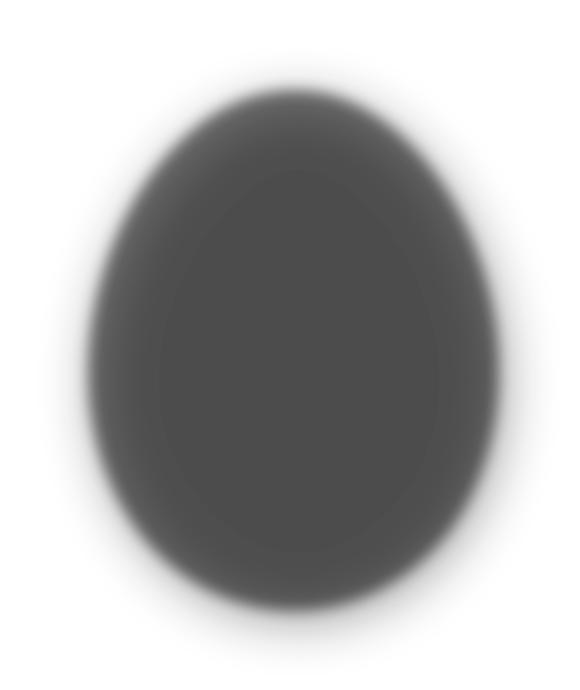
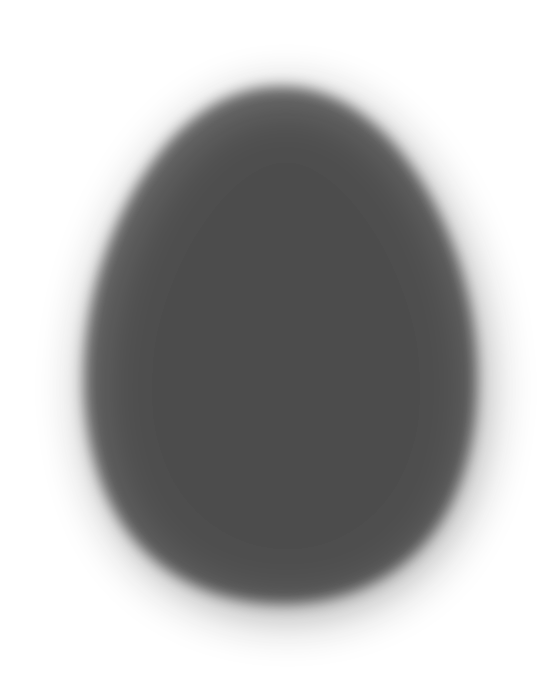
Обновление корпуса

Changed region(s): [[0.582, 0.6485, 0.8577, 0.8956], [0.1532, 0.6485, 0.3982, 0.8956]]

diff --git a/src/skin.js b/src/skin.js
@@ -46,19 +46,19 @@
     cream: {
       name: 'кремовый',
       image: 'resources/img/skins/shell_cream.png',
-      w: 829, h: 1048,
+      w: 793, h: 1042,
       offsetY: 0.5,
       /* вырез на единицу шире настоящего с каждой стороны: так он гарантированно
          накрывает полупрозрачную кромку, и мимо не просвечивает фон */
-      screen:  { x: 0.23402, y: 0.29389, w: 0.53679, h: 0.42462 },
+      screen:  { x: 0.23455, y: 0.30422, w: 0.53216, h: 0.40499 },
       radius:  0.030,                      // скругление углов экрана, доля от его ширины
       /* тень нарисована заранее, tools/makeshadow.py; pad — поле вокруг корпуса
          на картинке тени, доля от ширины корпуса */
-      shadow:  { image: 'resources/img/skins/shadow_cream.png', pad: 0.20024 },
+      shadow:  { image: 'resources/img/skins/shadow_cream.png', pad: 0.20050 },
       buttons: [
-        { x: 0.26519, y: 0.79395, w: 0.13549, h: 0.10580 },   // левая
-        { x: 0.43165, y: 0.83158, w: 0.13549, h: 0.10305 },   // средняя
-        { x: 0.59932, y: 0.79649, w: 0.13549, h: 0.10168 },   // правая
+        { x: 0.24762, y: 0.76777, w: 0.11259, h: 0.08154 },   // левая
+        { x: 0.43677, y: 0.80190, w: 0.11259, h: 0.08430 },   // средняя
+        { x: 0.62691, y: 0.76681, w: 0.11440, h: 0.08154 },   // правая
       ],
       light: 'left-top',                   // откуда свет: по нему строим тень и блик
     },
@@ -107,8 +107,7 @@
   /* ---------------------------------------------------------------------- */
   const CSS = `
 .skin-layer{position:fixed;inset:0;overflow:hidden;z-index:2;background:#101014;
-  /* события ловим здесь: и экран, и кнопки лежат внутри этого же слоя,
-     а касания по фону нужны для аварийного выхода тремя касаниями */
+  /* события ловим здесь: и экран, и кнопки лежат внутри этого же слоя */
   pointer-events:auto;}
 
 .skin-bg{position:absolute;inset:0;background:50% 50% / cover no-repeat;}
@@ -280,18 +279,6 @@
     root.classList.add('skin-on');
     refit();
     window.addEventListener('resize', refit);
-
-    /* Аварийный выход без меню: три быстрых касания по фону возвращают
-       обычный корпус. Нужен на случай, если что-то не отрисовалось и до
-       настроек не добраться. */
-    let taps = [];
-    layer.addEventListener('pointerdown', (e) => {
-      if (e.target.closest && e.target.closest('.skin-screen, .skin-btn')) { taps = []; return; }
-      const now = Date.now();
-      taps = taps.filter(t => now - t < 1200);
-      taps.push(now);
-      if (taps.length >= 3) { taps = []; failSafe('три касания подряд'); }
-    }, true);
 
     setTimeout(verifyOrFail, 1000);
     return true;
@@ -500,7 +487,7 @@
       {
         _ignore: !on,
         type: 'info',
-        name: '<small>Экран 100 % — ровно такой же, как без фотокорпуса: корпус подгоняется под экран.<br><br>Если что-то пойдёт не так, три касания по фону (не по экрану и не по кнопкам) вернут обычный корпус.</small>'
+        name: '<small>Экран 100 % — ровно такой же, как без фотокорпуса: корпус подгоняется под экран.<br><br>Если картинка не загрузится, фотокорпус выключится сам и напишет причину.</small>'
       },
       {
         _ignore: on,

diff --git a/src/Version.js b/src/Version.js
@@ -1,1 +1,1 @@
-VERSION = '1.13.7.3';
+VERSION = '1.13.7.4';

diff --git a/ФОТОКОРПУС-ЧТО-НУЖНО.md b/ФОТОКОРПУС-ЧТО-НУЖНО.md
@@ -161,10 +161,10 @@ python3 tools/skinprep.py фон.png resources/img/skins/bg_имя.jpg --ar 0.46
 **Не лезет в ту же яму дважды.** Если сборка началась и не дошла до проверки
 (приложение закрыли на полпути), при следующем запуске фотокорпус не включится.
 
-**Три касания по фону** — по столу, не по экрану и не по кнопкам — возвращают
-обычный корпус. Работает даже если вообще ничего не видно.
+**Адрес `pbelyaev1.github.io/?noskin`** — выключает режим при открытии.
 
-Плюс адрес `pbelyaev1.github.io/?noskin` — выключает режим при открытии
-в обычном браузере.
+Выхода «три касания по фону» больше нет: он срабатывал от обычных касаний
+по столу. Проверки выше не зависят от того, видно ли что-нибудь на экране,
+поэтому без него ничего не потеряно.
 
 ---
